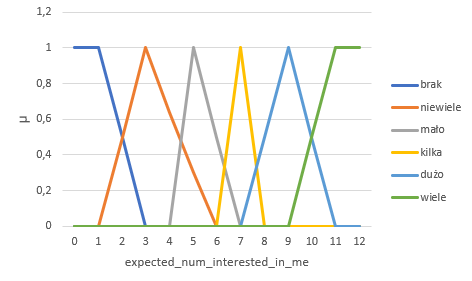
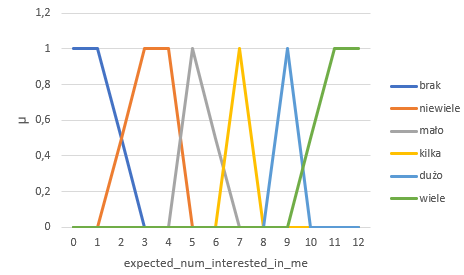
2.2 guess\_prob\_liked

diff --git a/sprawko/Sprawozdanie-projekt-2-podsumowania.tex b/sprawko/Sprawozdanie-projekt-2-podsumowania.tex
@@ -114,7 +114,7 @@ pref\_o\_intelligence & głupi, malo inteligentny, przeciętny, \\ & inteligenty
 pref\_o\_ambitious & nieambitny, średnio ambitny, ambitny \\ \hline
 tvsports & niezaintresowany, obojętny, \\ & średnio zainteresowany, \\ & zainteresowany, pasjonat \\ \hline
 expected\_num\_interested\_in\_me & brak, niewiele, mało, \\ & kilka, dużo, wiele \\ \hline
-guess\_prob\_liked & brak, niewielka, mała, normalna, \\ & średnia, znacząca, spora \\ \hline
+guess\_prob\_liked & brak, niewielka, mała, znacząca, spora \\ \hline
 funny & nudny, trochę nudny, \\ & przeciętnie zabawny, zabawny \\ \hline
 sincere & fałszywy, nieszczery, średnio szczery, szczery \\ \hline
 \end{tabular}
@@ -439,13 +439,12 @@ Poniżej zostały przedstawione wzory i wykresy przedstwiające poszczególne zm
       \end{cases}  
   \end{equation} 
 
-
   \begin{equation}
     \mu_{niewiele} =
       \begin{cases}
         0.5x-0.5 & \text{ dla } x \in [1,3] \\
-        1 & \text{ dla } x =3 \\
-        0.34x+2  & \text{ dla } x \in [3,6]
+        1 & \text{ dla } x \in [3,4] \\
+        -x+5  & \text{ dla } x \in [4,6]
       \end{cases}  
   \end{equation}
   
@@ -463,16 +462,16 @@ Poniżej zostały przedstawione wzory i wykresy przedstwiające poszczególne zm
       \begin{cases}
         x-6 & \text{ dla } x \in [6,7] \\
         1 & \text{ dla } x =7 \\
-        x+8  & \text{ dla } x \in [7,8]
+        -x+4  & \text{ dla } x \in [7,8]
       \end{cases}  
   \end{equation}
   
   \begin{equation}
     \mu_{dużo} =
       \begin{cases}
-        0.5x-3.5 & \text{ dla } x \in [7,9] \\
+        x+8 & \text{ dla } x \in [7,9] \\
         1 & \text{ dla } x =9 \\
-        -0.5x+5.5  & \text{ dla } x \in [9,11]
+        -x+10  & \text{ dla } x \in [9,11]
       \end{cases}  
   \end{equation}
 
@@ -486,10 +485,58 @@ Poniżej zostały przedstawione wzory i wykresy przedstwiające poszczególne zm
 
   \begin{figure}[H]
     \includegraphics{fp_enim.png}
-    \caption{Wykres funkcji przynależności dla atrybutu \(tvsports\).}
+    \caption{Wykres funkcji przynależności dla atrybutu \(expected\_num\_interested\_in\_me\).}
     \end{figure}
 
-  \item guess\_prob\_liked 
+  \item guess\_prob\_liked
+  \begin{equation}
+    \mu_{brak} =
+      \begin{cases}
+        1 & \text{ dla } x \in [0,1] \\
+        -x+2  & \text{ dla } x \in [1,2]
+      \end{cases}  
+  \end{equation}
+
+  \begin{equation}
+    \mu_{niewielka} =
+      \begin{cases}
+        0.5x-0.5 & \text{ dla } x \in [1,3] \\
+        1 & \text{ dla } x =3 \\
+        -x+4  & \text{ dla } x \in [3,4]
+      \end{cases}  
+  \end{equation}
+
+  \begin{equation}
+    \mu_{mała} =
+      \begin{cases}
+        0.5x-1.5 & \text{ dla } x \in [3,5] \\
+        1 & \text{ dla } x =5 \\
+        -x+6  & \text{ dla } x \in [5,6]
+      \end{cases}  
+  \end{equation}
+
+  \begin{equation}
+    \mu_{znaczaca} =
+      \begin{cases}
+        0.34x-1.67 & \text{ dla } x \in [5,8] \\
+        1 & \text{ dla } x \in [8,9] \\
+        -x+9  & \text{ dla } x \in [9,10]
+      \end{cases}  
+  \end{equation}
+
+  \begin{equation}
+    \mu_{spora} =
+      \begin{cases}
+        0.5x-4.5 & \text{ dla } x \in [9,11] \\
+        1 & \text{ dla } x \in [11,12] \\
+      \end{cases}  
+  \end{equation}
+
+  \begin{figure}[H]
+    \includegraphics{fp_gpl.png}
+    \caption{Wykres funkcji przynależności dla atrybutu \(guess\_prob\_liked \).}
+    \end{figure}
+
   \item funny
   \item sincere 
 \end{enumerate}
